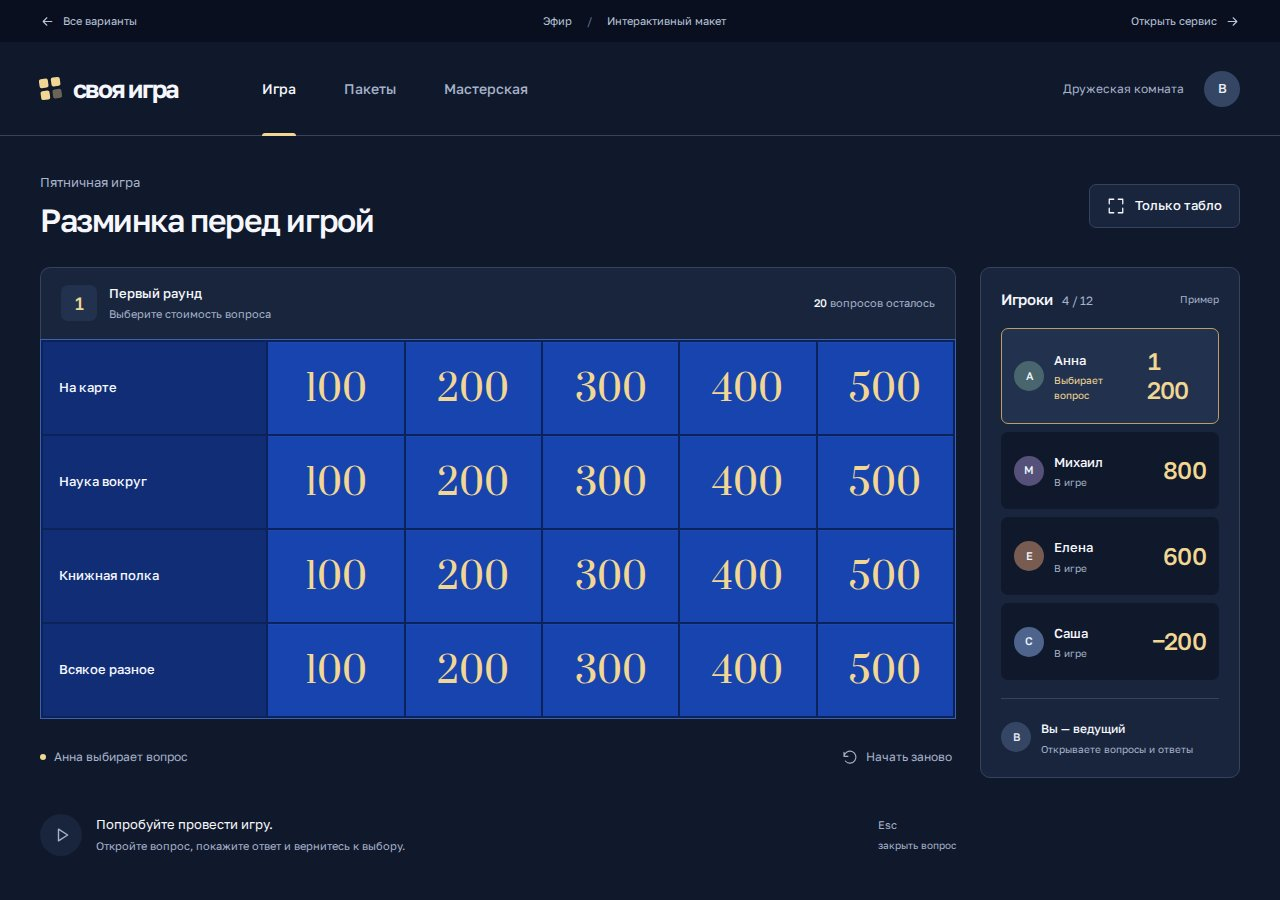
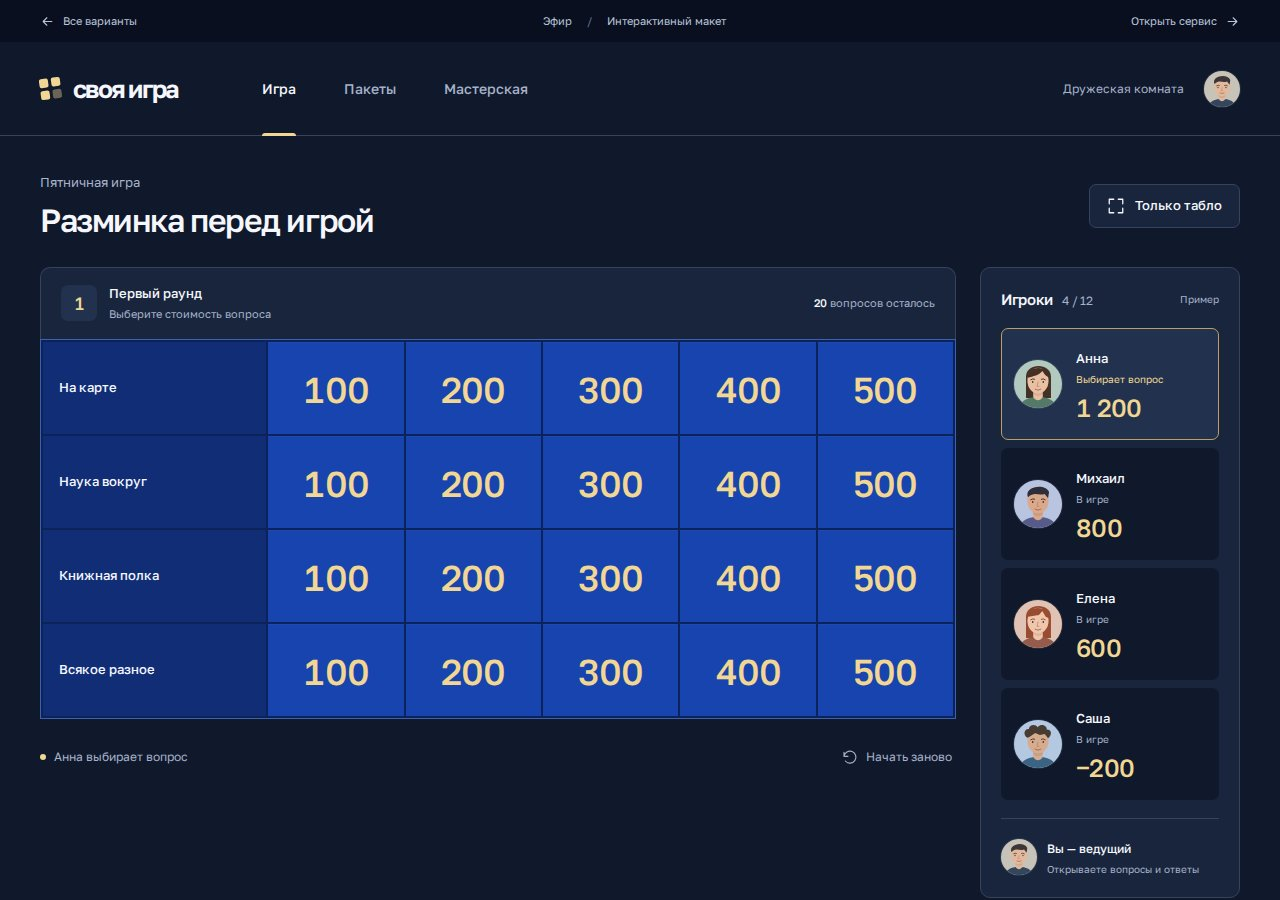
Add demo portraits and clearer sans-serif figures to Broadcast concept

diff --git a/web/static/designs/refined/ui.js b/web/static/designs/refined/ui.js
@@ -18,19 +18,24 @@ const design = document.body.dataset.design;
 const titles = {broadcast: 'Эфир', club: 'Клуб', arena: 'Арена'};
 const used = new Set(), edits = new Map();
 let section = 'game', selection = [0,0], returnFocus, search = '';
-const players = [['Анна','А','1 200'],['Михаил','М','800'],['Елена','Е','600'],['Саша','С','−200']];
+const players = [['Анна','А','1 200','anna'],['Михаил','М','800','mikhail'],['Елена','Е','600','elena'],['Саша','С','−200','sasha']];
+function avatar(name, letter, css = '') {
+  return design === 'broadcast'
+    ? `<img class="avatar ${css}" src="avatars/${name}.svg" alt="" width="48" height="48">`
+    : `<span class="avatar ${css}">${letter}</span>`;
+}
 document.querySelector('#app').innerHTML = `
   <div class="review-bar"><a href="index.html">${icon('back')} Все варианты</a><span>${titles[design]} <span class="review-divider">/</span> Интерактивный макет</span><a href="/">Открыть сервис ${icon('arrow')}</a></div>
   <header class="header"><a class="brand" href="${design}.html"><span class="brand-symbol" aria-hidden="true"><i></i><i></i><i></i><i></i></span><span>своя игра</span></a>
     <nav aria-label="Разделы"><button data-section="game">Игра</button><button data-section="catalogue">Пакеты</button><button data-section="editor">Мастерская</button></nav>
-    <div class="header-end"><span class="room-label">Дружеская комната</span><span class="avatar">В</span></div>
+    <div class="header-end"><span class="room-label">Дружеская комната</span>${avatar('host', 'В')}</div>
   </header>
   <main id="main"></main>
   <footer class="footer"><span>Дизайн «${titles[design]}»</span><span>Вопросы настоящие. Участники и счёт — пример.</span><a href="../studio.html">Предыдущий макет</a></footer>
   <dialog aria-labelledby="dialog-title"><div class="question-top"><span id="dialog-topic"></span><button class="icon-button" id="close-question" aria-label="Закрыть вопрос">${icon('close')}</button></div><div class="question-value" id="dialog-value"></div><h2 id="dialog-title"></h2><p id="dialog-answer" hidden></p><div class="question-controls"><button class="button primary" id="answer">Показать ответ</button><button class="button subtle" id="return">К табло</button></div></dialog>`;
 const main = document.querySelector('#main'), dialog = document.querySelector('dialog');
 function playerList() {
-  return `<div class="players-head"><h2>Игроки <span>4 / 12</span></h2><span class="sample">Пример</span></div><div class="players">${players.map(([name,letter,score],i)=>`<div class="player ${i===0?'current':''}"><div class="player-person"><span class="avatar player-avatar p${i}">${letter}</span><div><strong>${name}</strong><span>${i===0?'Выбирает вопрос':'В игре'}</span></div></div><div class="score">${score}</div></div>`).join('')}</div><div class="host"><span class="avatar host-avatar">В</span><div><strong>Вы — ведущий</strong><span>Открываете вопросы и ответы</span></div></div>`;
+  return `<div class="players-head"><h2>Игроки <span>4 / 12</span></h2><span class="sample">Пример</span></div><div class="players">${players.map(([name,letter,score,portrait],i)=>`<div class="player ${i===0?'current':''}"><div class="player-person">${avatar(portrait, letter, `player-avatar p${i}`)}<div><strong>${name}</strong><span>${i===0?'Выбирает вопрос':'В игре'}</span></div></div><div class="score">${score}</div></div>`).join('')}</div><div class="host">${avatar('host', 'В', 'host-avatar')}<div><strong>Вы — ведущий</strong><span>Открываете вопросы и ответы</span></div></div>`;
 }
 function openQuestion(t,q,preview=false) {
   returnFocus = document.activeElement;

diff --git a/web/static/designs/refined/ui.css b/web/static/designs/refined/ui.css
@@ -20,3 +20,21 @@ body.board-focus .game-layout{grid-template-columns:1fr}
 @media(max-width:600px){[data-design=broadcast] .player{padding:15px 12px}[data-design=broadcast] .score{font-size:23px}}
 .score{white-space:nowrap}
 @media(max-width:600px){body[data-design=broadcast] .player,body[data-design=club] .player{display:block}body[data-design=broadcast] .score,body[data-design=club] .score{margin:12px 0 0 33px}}
+/* Selected direction: readable sans-serif figures and illustrated demo avatars. */
+body[data-design=broadcast] .board button,
+body[data-design=broadcast] .question-value,
+body[data-design=broadcast] .cover-bottom strong{
+  font-family:Golos,sans-serif;
+  font-weight:500;
+  font-variant-numeric:lining-nums tabular-nums;
+  letter-spacing:-.025em;
+}
+body[data-design=broadcast] img.avatar{object-fit:cover;border-radius:50%;box-shadow:0 0 0 1px #ffffff18}
+body[data-design=broadcast] .player{display:grid;grid-template-columns:48px minmax(0,1fr);column-gap:14px;row-gap:7px;align-items:center}
+body[data-design=broadcast] .player-person{display:contents}
+body[data-design=broadcast] .player-avatar{width:48px;height:48px;grid-column:1;grid-row:1/3}
+body[data-design=broadcast] .player-person>div{grid-column:2;min-width:0}
+body[data-design=broadcast] .score{grid-column:2;margin:0;font-size:25px;line-height:1.1}
+body[data-design=broadcast] .host-avatar{width:36px;height:36px}
+@media(max-width:1150px){body[data-design=broadcast] .player{grid-template-columns:40px minmax(0,1fr);column-gap:10px}body[data-design=broadcast] .player-avatar{width:40px;height:40px}}
+@media(max-width:600px){body[data-design=broadcast] .player{padding:14px 10px;column-gap:9px}body[data-design=broadcast] .score{font-size:23px}body[data-design=broadcast] .player-person strong{font-size:12px}}

diff --git a/Docs/interface-refinement.md b/Docs/interface-refinement.md
@@ -21,3 +21,9 @@
 Страница сравнения: http://localhost:5173/designs/refined/index.html. Для неё сняты настоящие скриншоты каждого HTML-макета, а не нарисованные превью. Локальные шрифты включают лицензии OFL. Внешних загрузок при открытии макетов нет.
 
 Проверены в Chromium: 20 вопросов, показ ответа, закрытие Escape с восстановлением фокуса, режим только табло и выход из него, поиск темы и пустое состояние, редактор и сохранение правок при переходе к другому вопросу, предпросмотр. Все три варианта проверены на 360, 390, 768 и 1024 px; горизонтального переполнения нет, ошибок JavaScript нет. Скриншоты трёх десктопных вариантов и мобильные варианты просмотрены. После визуальной проверки список игроков в «Эфире» уплотнён, чтобы не вытягивать комнату по высоте.
+
+## Выбран «Эфир»: аватарки и цифры
+
+Пользователь предпочёл первый вариант, попросил аватарки и более привычные цифры. В «Эфире» стоимость вопросов и цифры предпросмотра переведены на Golos Text с табличными цифрами без засечек. Для четырёх игроков и ведущего добавлены локальные авторские SVG-портреты: это демонстрационные аватарки, не фотографии реальных пользователей. Загрузка пользовательских аватарок в этом макете не реализуется. Карточки участников переразложены под портреты 48 px (40 px на узком экране). Превью на странице сравнения обновлено.
+
+Проверено: загрузка всех аватарок, применённый шрифт табло и вопроса, открытие/закрытие вопроса, отсутствие переполнения текста и страницы на 360/390/768/1024 px. Ошибок JavaScript нет.
